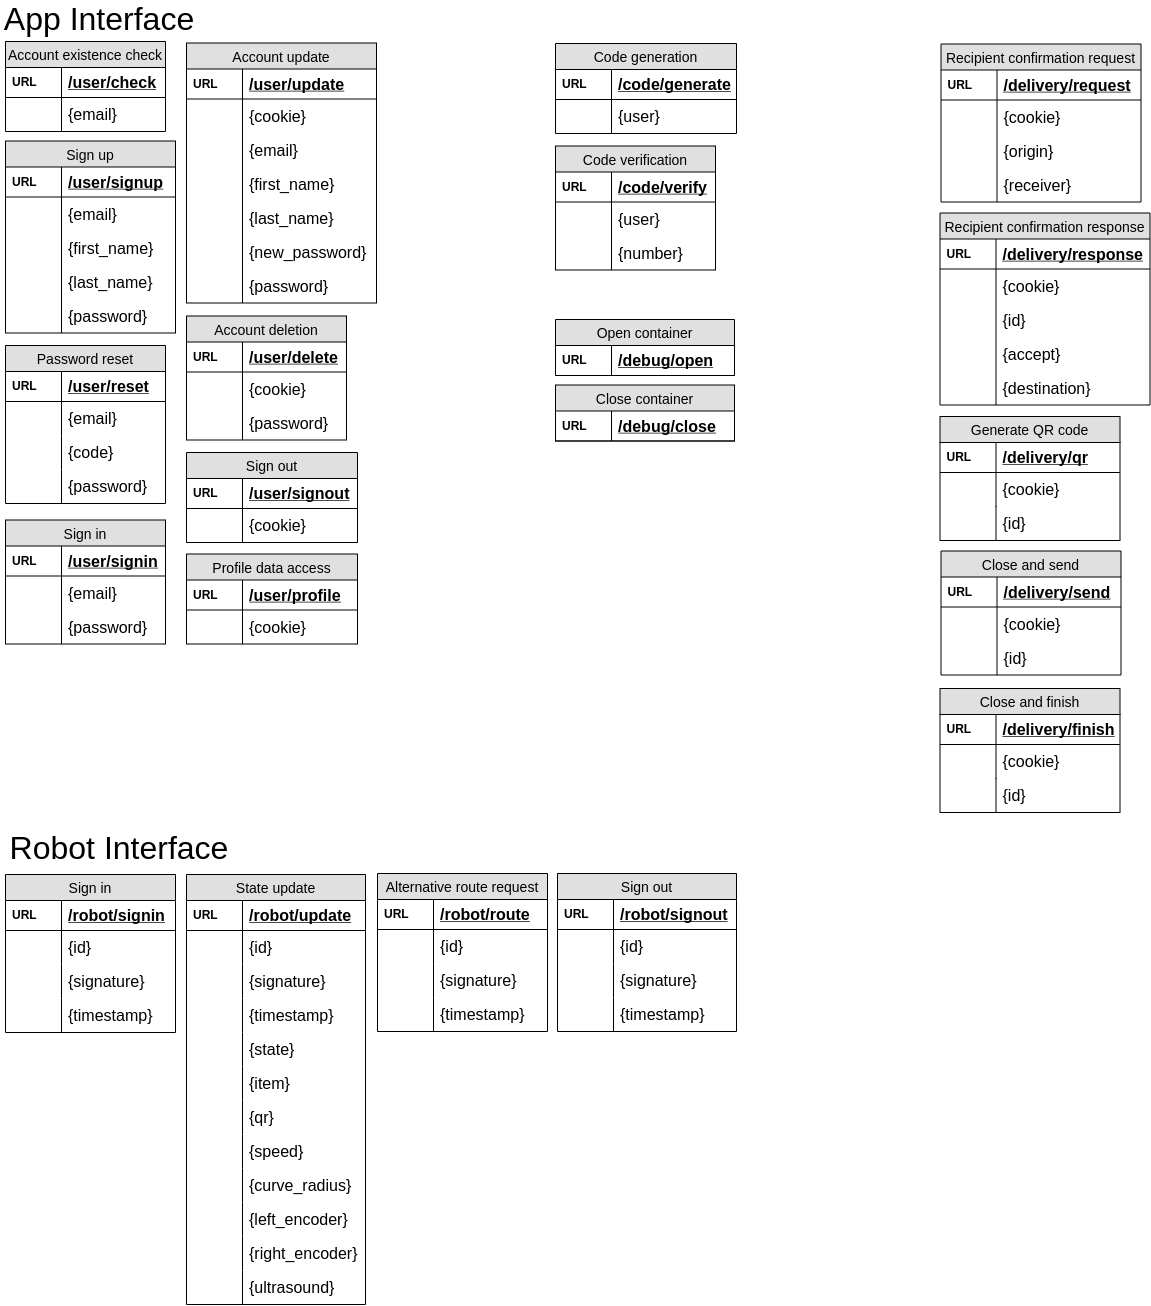
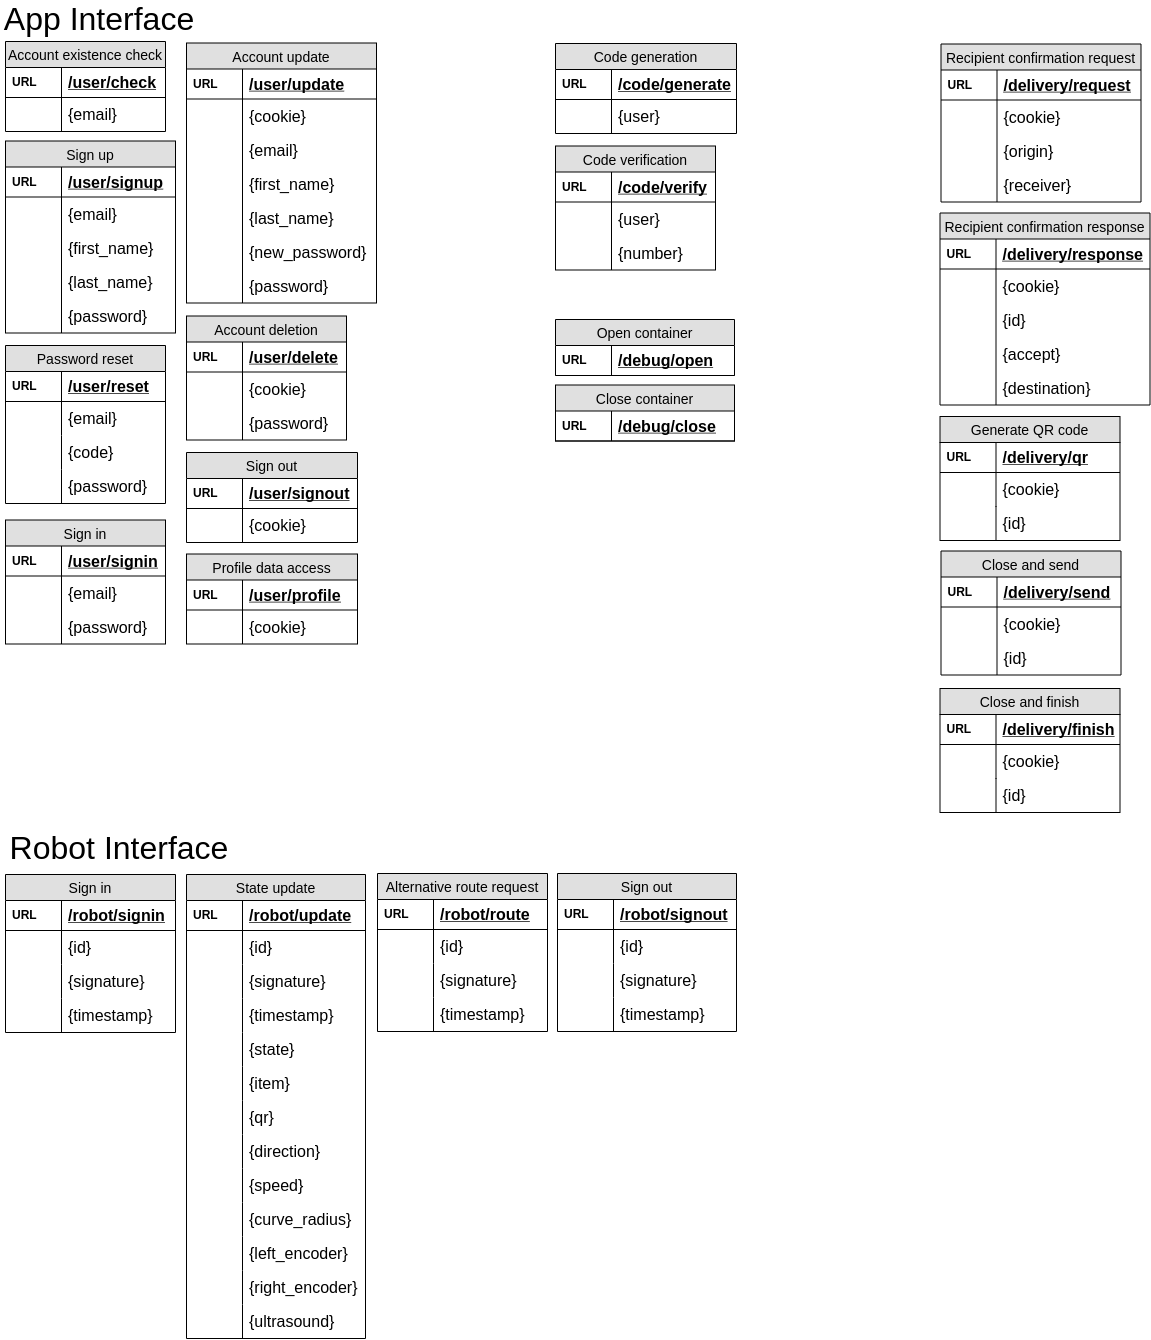
Changed path to contain directions instead of targets

diff --git a/server/software/objects.py b/server/software/objects.py
@@ -10,6 +10,7 @@ import email.mime.multipart
 import email.mime.text
 import smtplib
 import importlib
+import enum
 
 def full_class_name(o):
     module = o.__class__.__module__
@@ -53,49 +54,105 @@ def send_email(email_address, first_name, last_name, number):
         module.error(e)
     return False
 
+class Direction(enum.Enum):
+    FRONT = 0
+    LEFT = 1
+    BACK = 2
+    RIGHT = 3
+
+    @classmethod
+    def fromstr(cls, str):
+        if str == 'front':
+            return cls(0)
+        elif str == 'left':
+            return cls(1)
+        elif str == 'back':
+            return cls(2)
+        elif str == 'right':
+            return cls(3)
+
+    def __str__(self):
+        if int(self) == 0:
+            return 'front'
+        elif int(self) == 1:
+            return 'left'
+        elif int(self) == 2:
+            return 'back'
+        elif int(self) == 3:
+            return 'right'
+
+    def __int__(self):
+        return self.value
+
+    def __eq__(self, other):
+        return int(self) == int(other) % 4
+
+    def __neg__(self):
+        return Direction(-int(self) % 4)
+
+    def __add__(self, other):
+        return Direction((int(self) + int(other)) % 4)
+
+    def __sub__(self, other):
+        return self + (-other)
+
+    def __radd__(self, other):
+        return self + other
+
+    def __rsub__(self, other):
+        return (-self) + other
+
 city = {
-    1: {2},
-    2: {1, 3, 10},
-    3: {2, 4},
-    4: {3},
-    5: {3, 6},
-    6: {7, 8},
-    7: {6},
-    8: {9, 12},
-    9: {8},
-    10: {24, 16},
-    11: {10, 5},
-    12: {11, 13},
-    13: {12},
-    14: {12, 15},
-    15: {14},
-    16: {21, 17},
-    17: {11, 18},
-    18: {14, 19},
-    19: {18},
-    20: {21},
-    21: {20, 22},
-    22: {17, 21, 23},
-    23: {22},
-    24: {25},
-    25: {26},
-    26: {27},
-    27: {28},
-    28: {29},
-    29: {16}
+    1: {2: Direction.RIGHT},
+    2: {1: Direction.LEFT, 3: Direction.RIGHT, 10: Direction.BACK},
+    3: {2: Direction.LEFT, 4: Direction.RIGHT},
+    4: {3: Direction.LEFT},
+    5: {3: Direction.FRONT, 6: Direction.RIGHT},
+    6: {7: Direction.RIGHT, 8: Direction.BACK},
+    7: {6: Direction.LEFT},
+    8: {9: Direction.RIGHT, 12: Direction.BACK},
+    9: {8: Direction.LEFT},
+    10: {24: Direction.LEFT, 16: Direction.BACK},
+    11: {10: Direction.LEFT, 5: Direction.FRONT},
+    12: {11: Direction.LEFT, 13: Direction.RIGHT},
+    13: {12: Direction.LEFT},
+    14: {12: Direction.FRONT, 15: Direction.RIGHT},
+    15: {14: Direction.LEFT},
+    16: {21: Direction.BACK, 17: Direction.RIGHT},
+    17: {11: Direction.FRONT, 18: Direction.RIGHT},
+    18: {14: Direction.FRONT, 19: Direction.RIGHT},
+    19: {18: Direction.LEFT},
+    20: {21: Direction.RIGHT},
+    21: {20: Direction.LEFT, 22: Direction.RIGHT},
+    22: {17: Direction.FRONT, 21: Direction.LEFT, 23: Direction.RIGHT},
+    23: {22: Direction.LEFT},
+    24: {25: Direction.LEFT},
+    25: {26: Direction.LEFT},
+    26: {27: Direction.BACK},
+    27: {28: Direction.RIGHT},
+    28: {29: Direction.RIGHT},
+    29: {16: Direction.RIGHT}
 }
 
-garages = [1, 4, 7, 9, 13, 15, 19, 20, 23]
+garages = [1, 4, 20, 23]
 
 def shortest_path(graph, start, goal):
     queue = [(start, [start])]
     while queue:
         (vertex, path) = queue.pop(0)
-        for next in graph[vertex] - set(path):
+        for next in set(graph[vertex]) - set(path):
             if next == goal:
                 return path + [next]
             else:
                 queue.append((next, path + [next]))
+
+def path_to_directions(graph, path, orientation):
+    ret = []
+    for origin, destination in zip(path[:-1], path[1:]):
+        direction = graph[origin][destination] - orientation
+        orientation = graph[origin][destination]
+        ret.append((str(direction), destination))
+    return ret
 
 class ScriptCache:
     def __init__(self):
@@ -564,6 +621,37 @@ class Robot:
             cursor = connection.cursor(prepared = True)
             query = "UPDATE Robot SET position = %s WHERE id = %s"
             values = (value, self._id)
+            try:
+                cursor.execute(query, values)
+                connection.commit()
+            except Exception as e:
+                module.error(e)
+                connection.rollback()
+            finally:
+                cursor.close()
+
+    @property
+    def orientation(self):
+        with connect.connect() as connection:
+            cursor = connection.cursor(prepared = True)
+            query = "SELECT orientation FROM Robot WHERE id = %s"
+            values = (self._id,)
+            try:
+                cursor.execute(query, values)
+                result = cursor.fetchone()
+                if result:
+                    return Direction(result[0])
+            except Exception as e:
+                module.error(e)
+            finally:
+                cursor.close()
+
+    @orientation.setter
+    def orientation(self, value):
+        with connect.connect() as connection:
+            cursor = connection.cursor(prepared = True)
+            query = "UPDATE Robot SET orientation = %s WHERE id = %s"
+            values = (int(value), self._id)
             try:
                 cursor.execute(query, values)
                 connection.commit()
@@ -1246,12 +1334,12 @@ class Delivery:
                 finally:
                     cursor.close()
 
-    def response(self, destination, robot):
+    def response(self, position, destination, robot):
         if self._id != None:
             with connect.connect() as connection:
                 cursor = connection.cursor(prepared = True)
-                query = "UPDATE Delivery SET state = 1, destination = %s, robot = %s WHERE id = %s"
-                values = (destination, robot, self._id)
+                query = "UPDATE Delivery SET state = 1, path = %s, destination = %s, robot = %s WHERE id = %s"
+                values = (json.dumps([position]), destination, robot, self._id)
                 try:
                     cursor.execute(query, values)
                     connection.commit()

diff --git a/server/software/robotclient.py b/server/software/robotclient.py
@@ -43,11 +43,11 @@ async def handler():
                         data = {"path": "/robot/update", "id": 0, "timestamp": datetime.datetime.now().timestamp(), "state": 2}
                         data["signature"] = private_key.sign(hashlib.sha256(json.dumps(data, sort_keys = True).encode("utf-8")).hexdigest().encode("utf-8"), '')[0]
                         await websocket.send(json.dumps(data))
-                        for position in resp["message_body"]["path"]:
-                            data = {"path": "/robot/update", "id": 0, "timestamp": datetime.datetime.now().timestamp(), "qr": position}
+                        for direction, position in resp["message_body"]["path"]:
+                            data = {"path": "/robot/update", "id": 0, "timestamp": datetime.datetime.now().timestamp(), "qr": position, "direction": direction}
                             data["signature"] = private_key.sign(hashlib.sha256(json.dumps(data, sort_keys = True).encode("utf-8")).hexdigest().encode("utf-8"), '')[0]
                             await websocket.send(json.dumps(data))
-                        data = {"path": "/robot/update", "id": 0, "timestamp": datetime.datetime.now().timestamp(), "state": 1, "qr": resp["message_body"]["path"][-1]}
+                        data = {"path": "/robot/update", "id": 0, "timestamp": datetime.datetime.now().timestamp(), "state": 1, "qr": resp["message_body"]["path"][-1][1]}
                         data["signature"] = private_key.sign(hashlib.sha256(json.dumps(data, sort_keys = True).encode("utf-8")).hexdigest().encode("utf-8"), '')[0]
                         await websocket.send(json.dumps(data))
                         print("Container opened")
@@ -58,11 +58,11 @@ async def handler():
                         data = {"path": "/robot/update", "id": 0, "timestamp": datetime.datetime.now().timestamp(), "state": 2}
                         data["signature"] = private_key.sign(hashlib.sha256(json.dumps(data, sort_keys = True).encode("utf-8")).hexdigest().encode("utf-8"), '')[0]
                         await websocket.send(json.dumps(data))
-                        for position in resp["message_body"]["path"]:
-                            data = {"path": "/robot/update", "id": 0, "timestamp": datetime.datetime.now().timestamp(), "qr": position}
+                        for direction, position in resp["message_body"]["path"]:
+                            data = {"path": "/robot/update", "id": 0, "timestamp": datetime.datetime.now().timestamp(), "qr": position, "direction": direction}
                             data["signature"] = private_key.sign(hashlib.sha256(json.dumps(data, sort_keys = True).encode("utf-8")).hexdigest().encode("utf-8"), '')[0]
                             await websocket.send(json.dumps(data))
-                        data = {"path": "/robot/update", "id": 0, "timestamp": datetime.datetime.now().timestamp(), "state": 1, "qr": resp["message_body"]["path"][-1]}
+                        data = {"path": "/robot/update", "id": 0, "timestamp": datetime.datetime.now().timestamp(), "state": 1, "qr": resp["message_body"]["path"][-1][1]}
                         data["signature"] = private_key.sign(hashlib.sha256(json.dumps(data, sort_keys = True).encode("utf-8")).hexdigest().encode("utf-8"), '')[0]
                         await websocket.send(json.dumps(data))
                         print("Container opened")
@@ -78,14 +78,11 @@ async def handler():
                         data = {"path": "/robot/update", "id": 0, "timestamp": datetime.datetime.now().timestamp(), "state": 2}
                         data["signature"] = private_key.sign(hashlib.sha256(json.dumps(data, sort_keys = True).encode("utf-8")).hexdigest().encode("utf-8"), '')[0]
                         await websocket.send(json.dumps(data))
-                        for position in resp["message_body"]["path"]:
-                            data = {"path": "/robot/update", "id": 0, "timestamp": datetime.datetime.now().timestamp(), "qr": position}
+                        for direction, position in resp["message_body"]["path"]:
+                            data = {"path": "/robot/update", "id": 0, "timestamp": datetime.datetime.now().timestamp(), "qr": position, "direction": direction}
                             data["signature"] = private_key.sign(hashlib.sha256(json.dumps(data, sort_keys = True).encode("utf-8")).hexdigest().encode("utf-8"), '')[0]
                             await websocket.send(json.dumps(data))
-                        data = {"path": "/robot/update", "id": 0, "timestamp": datetime.datetime.now().timestamp(), "state": 1, "qr": resp["message_body"]["path"][-1]}
-                        data["signature"] = private_key.sign(hashlib.sha256(json.dumps(data, sort_keys = True).encode("utf-8")).hexdigest().encode("utf-8"), '')[0]
-                        await websocket.send(json.dumps(data))
-                        data = {"path": "/robot/update", "id": 0, "timestamp": datetime.datetime.now().timestamp(), "state": 0, "qr": 1}
+                        data = {"path": "/robot/update", "id": 0, "timestamp": datetime.datetime.now().timestamp(), "state": 1, "qr": resp["message_body"]["path"][-1][1]}
                         data["signature"] = private_key.sign(hashlib.sha256(json.dumps(data, sort_keys = True).encode("utf-8")).hexdigest().encode("utf-8"), '')[0]
                         await websocket.send(json.dumps(data))
                         data = {"path": "/robot/signout", "id": 0, "timestamp": datetime.datetime.now().timestamp()}

diff --git a/server/software/public/robot/update.py b/server/software/public/robot/update.py
@@ -6,7 +6,7 @@ async def main(websocket, path, open_sockets, script_cache, data = None):
     if not data:
         data = await websocket.recv()
         data = json.loads(data)
-    if "id" in data and "signature" in data and "timestamp" in data and ("state" in data or "item" in data or "qr" in data or "speed" in data or "curve_radius" in data or "left_encoder" in data or "right_encoder" in data or "ultrasound" in data):
+    if "id" in data and "signature" in data and "timestamp" in data and ("state" in data or "item" in data or "qr" in data or "direction" in data or "speed" in data or "curve_radius" in data or "left_encoder" in data or "right_encoder" in data or "ultrasound" in data):
         resp = {
             "status_code": 200,
             "reason_message": "OK"
@@ -22,6 +22,8 @@ async def main(websocket, path, open_sockets, script_cache, data = None):
                 if "qr" in data:
                     if data["qr"] < 32:
                         robot.position = data["qr"]
+                if "direction" in data:
+                    robot.orientation += objects.Direction.fromstr(data["direction"])
                 if "speed" in data:
                     robot.speed = data["speed"]
                 if "curve_radius" in data:

diff --git a/server/software/public/delivery/response.py b/server/software/public/delivery/response.py
@@ -26,7 +26,8 @@ async def main(websocket, path, open_sockets, script_cache, data = None):
                                 robot = nearest[0]
                                 robot_path = nearest[1]
                                 robot.route = robot_path
-                                if delivery.response(data["destination"], robot.id):
+                                robot_path = objects.path_to_directions(objects.city, robot_path, robot.orientation)
+                                if delivery.response(robot.position, data["destination"], robot.id):
                                     for login in logins:
                                         data2 = {"status_code": 200, "reason_message": "OK", "path": "/delivery/response", "message_body": {"id": delivery.id, "accept": True, "destination": data["destination"], "path": robot_path}}
                                         await open_sockets["users"][login.cookie].send(json.dumps(data2))

diff --git a/server/software/public/delivery/finish.py b/server/software/public/delivery/finish.py
@@ -26,6 +26,7 @@ async def main(websocket, path, open_sockets, script_cache, data = None):
                         if robot_path == None or len(route) < len(robot_path):
                             robot_path = route
                     robot.route = robot_path
+                    robot_path = objects.path_to_directions(objects.city, robot_path, robot.orientation)
                     data2 = {"status_code": 200, "reason_message": "OK", "path": "/delivery/finish", "message_body": {"path": robot_path}}
                     await open_sockets["robots"][robot.id].send(json.dumps(data2))
                     data2["message_body"] = "true"

diff --git a/server/software/public/delivery/send.py b/server/software/public/delivery/send.py
@@ -22,6 +22,7 @@ async def main(websocket, path, open_sockets, script_cache, data = None):
                     delivery.send()
                     robot_path = objects.shortest_path(objects.city, delivery.origin, delivery.destination)
                     robot.route = robot_path
+                    robot_path = objects.path_to_directions(objects.city, robot_path, robot.orientation)
                     data2 = {"status_code": 200, "reason_message": "OK", "path": "/delivery/send", "message_body": {"path": robot_path}}
                     data2 = json.dumps(data2)
                     for login in logins:

diff --git a/server/software/cleanup.py b/server/software/cleanup.py
@@ -7,6 +7,7 @@ async def main():
     robot = objects.Robot(0)
     robot.state = 0
     robot.position = 1
+    robot.orientation = objects.Direction.RIGHT
     robot.route = []
     robot.alive = False
     user1 = objects.User("subject@example.com")
